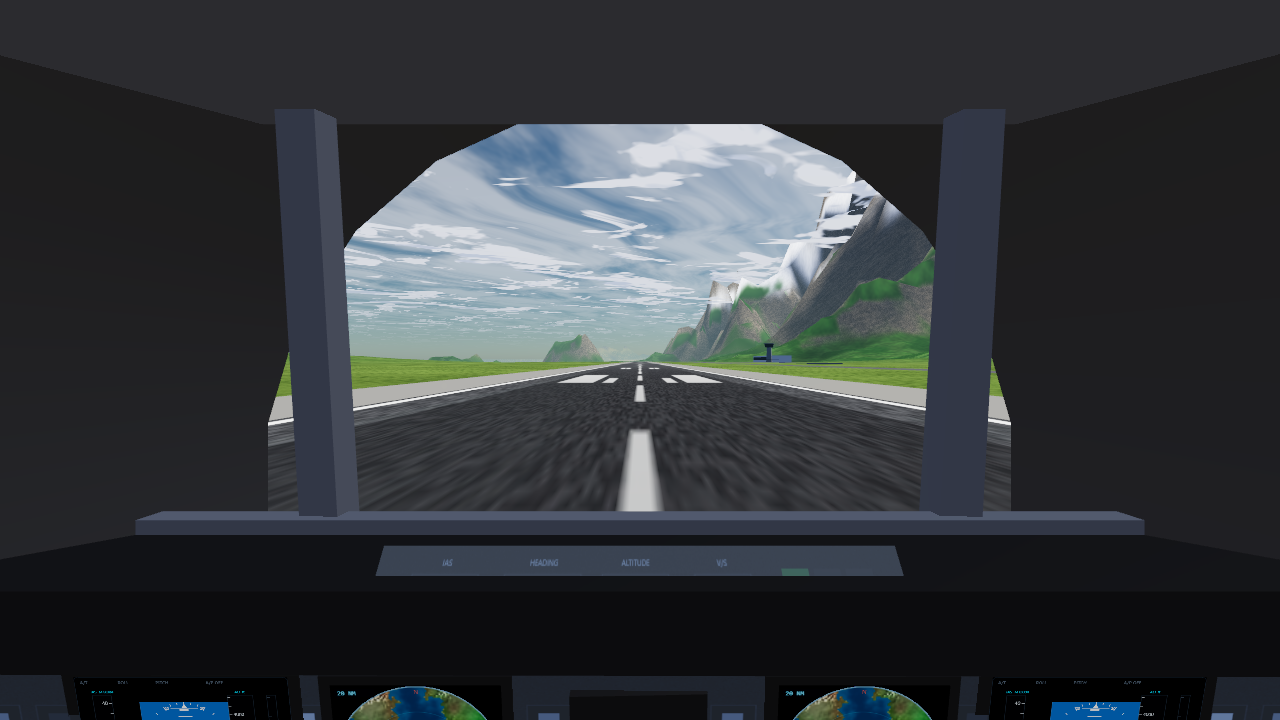
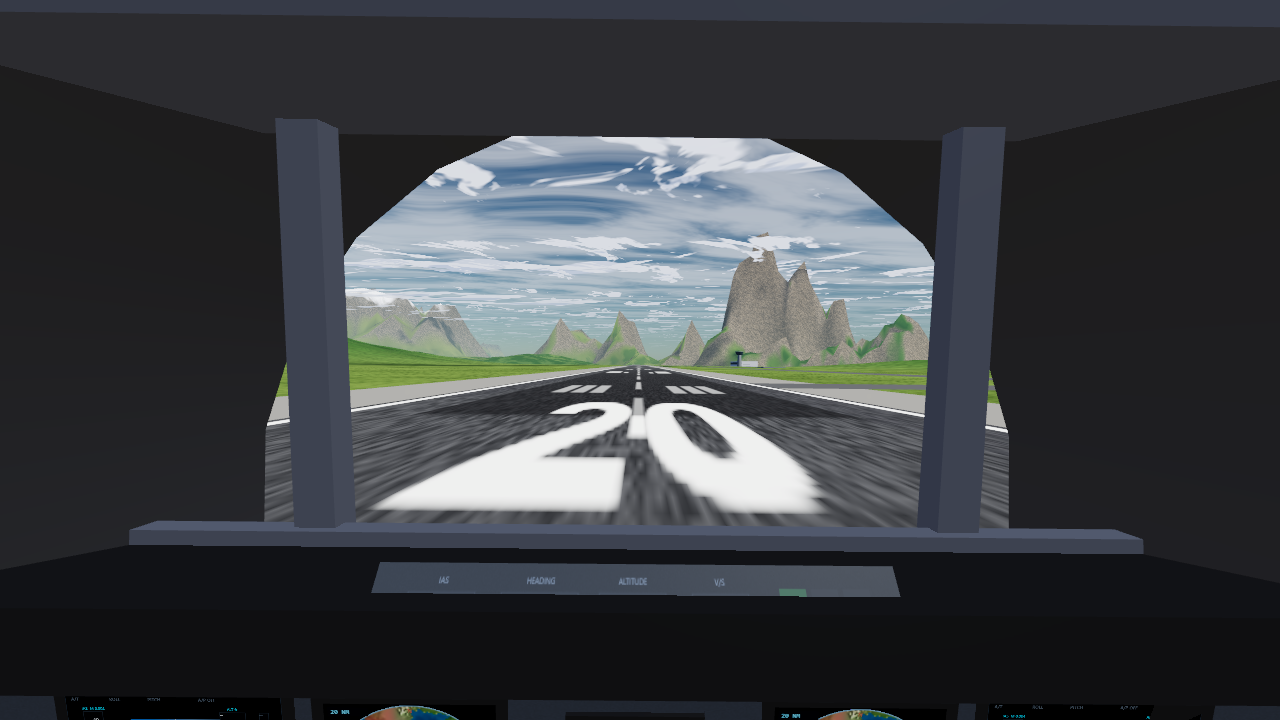
shortened required take-off distance

diff --git a/src/aircraft.js b/src/aircraft.js
@@ -1,5 +1,5 @@
 import * as THREE from 'three';
-import { terrainHeight, terrainNormal } from './terrainCommon.js';
+import { terrainHeight, terrainNormal, RWY_LENGTH } from './terrainCommon.js';
 import { snoise } from './noise.js';
 
 export const KT = 0.514444;      // knots -> m/s
@@ -52,6 +52,19 @@ const BELLY = [
 ];
 
 function clamp(v, a, b) { return v < a ? a : v > b ? b : v; }
+
+/** Idle N1 rises with altitude, from about 22% on the ground to 50% at cruise. */
+function idleN1(alt) { return 21.5 + clamp(alt, 0, 12000) / 12000 * 29; }
+
+/**
+ * Fraction of rated thrust produced at a given N1. A high-bypass turbofan is
+ * strongly non-linear — 70% N1 is only about a third of takeoff thrust — and it
+ * never reaches zero, which is why a jet creeps forward at idle.
+ */
+function thrustFraction(n1) {
+  const x = clamp((n1 - 20) / 80, 0, 1);
+  return 0.040 + 0.960 * Math.pow(x, 2.2);
+}
 function approach(cur, target, rate, dt) {
   const d = target - cur;
   const m = rate * dt;
@@ -68,9 +81,14 @@ export class Aircraft {
     this.fuel = 12000;
     this.mass = OEW + PAYLOAD + this.fuel;
 
-    // controls (-1..1)
+    // Pilot commands (-1..1) and the deflections the surfaces have actually
+    // reached — hydraulic actuators take time, which is most of what makes a
+    // large aeroplane feel heavy rather than twitchy.
     this.elevator = 0; this.aileron = 0; this.rudder = 0;
+    this.elevSurf = 0; this.ailSurf = 0; this.rudSurf = 0;
     this.elevTrim = 0.0;
+    this.buffet = 0; this.rumble = 0;
+    this._ydWash = 0; this._buffPhase = 0;
     this.throttle = 0.0;
     this.n1 = [20, 20];
     this.flapIndex = 0;
@@ -147,14 +165,18 @@ export class Aircraft {
     const CD = 0.0205 + f.dCD + 0.021 * this.gearPos + k * CL * CL;
     const drag = qbar * S * CD;
     const avail = 2 * T_MAX_ENG * Math.pow(rho / 1.225, 0.85) * (1 - 0.28 * clamp(V / a, 0, 0.9));
-    const n1 = 20 + 80 * Math.pow(clamp(drag / avail, 0, 1), 1 / 3);
+    const frac = clamp((clamp(drag / avail, 0, 1) - 0.040) / 0.960, 0, 1);
+    const n1 = 20 + 80 * Math.pow(frac, 1 / 2.2);
     this.n1 = [n1, n1];
-    this.throttle = clamp((n1 - 21) / 79, 0, 1);
+    const idle = idleN1(alt);
+    this.throttle = clamp((n1 - idle) / (100 - idle), 0, 1);
   }
 
   placeOnRunway(ap) {
     const dir = new THREE.Vector3(Math.sin(ap.hdg), 0, -Math.cos(ap.hdg));
-    this.pos.set(ap.x - dir.x * 1200, ap.elev + 3.2, ap.z - dir.z * 1200);
+    // Line up on the threshold so the whole runway is available.
+    const back = RWY_LENGTH / 2 - 70;
+    this.pos.set(ap.x - dir.x * back, ap.elev + 3.2, ap.z - dir.z * back);
     this.quat.setFromAxisAngle(new THREE.Vector3(0, 1, 0), -ap.hdg);
     this.vel.set(0, 0, 0);
     this.omega.set(0, 0, 0);
@@ -231,15 +253,25 @@ export class Aircraft {
     this.windTarget.set(Math.cos(dir) * strength, 0, Math.sin(dir) * strength);
     this.wind.lerp(this.windTarget, Math.min(dt * 0.15, 1));
 
-    // turbulence: stronger low down, in cloud, and in bad weather
+    // Turbulence: stronger low down and in bad weather. Two scales — slow swells
+    // plus a sharper ripple — and a rotational component, because what you feel
+    // in an aeroplane is mostly the aircraft being rolled and yawed, not shoved.
     const turbScale = this.turbulence * (0.4 + weatherWind);
     const t = this._t;
-    const gust = (a, b) => snoise(t * a + b, this.pos.y * 0.0007 + b);
+    const slow = (a, b) => snoise(t * a + b, this.pos.y * 0.0007 + b);
+    const fast = (a, b) => snoise(t * a + b, this.pos.x * 0.00035 + b);
     this._gust = this._gust || new THREE.Vector3();
+    this._gustRot = this._gustRot || new THREE.Vector3();
     const lowLevel = 1 + 2.0 * Math.exp(-Math.max(this.agl, 0) / 700);
+    const k = turbScale * lowLevel;
     this._gust.set(
-      gust(0.7, 0) * 3.0, gust(0.55, 40) * 2.4, gust(0.63, 80) * 3.0
-    ).multiplyScalar(turbScale * lowLevel);
+      slow(0.7, 0) * 3.0 + fast(2.9, 11) * 1.0,
+      slow(0.55, 40) * 2.4 + fast(3.4, 51) * 1.2,
+      slow(0.63, 80) * 3.0 + fast(3.1, 91) * 1.0
+    ).multiplyScalar(k);
+    this._gustRot.set(
+      fast(2.2, 7) * 0.05, fast(1.7, 23) * 0.03, fast(2.6, 37) * 0.07
+    ).multiplyScalar(k);
   }
 
   step(dt) {
@@ -252,11 +284,12 @@ export class Aircraft {
     this.gearPos = approach(this.gearPos, this.gearDown ? 1 : 0, 1 / 9, dt);
     this.spoilers = approach(this.spoilers, this.spoilerCmd, 1.6, dt);
 
-    // engines: first order spool
-    const idleN1 = 21 + Math.max(0, this.pos.y) * 0.0006 * 100 * 0.01;
-    const cmdN1 = idleN1 + this.throttle * (100 - idleN1);
+    // Engines. Spool time shortens as N1 rises — a turbofan accelerates lazily
+    // off idle and briskly once the core is already spinning.
+    const idle = idleN1(this.pos.y);
+    const cmdN1 = idle + this.throttle * (100 - idle);
     for (let i = 0; i < 2; i++) {
-      const tau = this.n1[i] < cmdN1 ? 2.6 : 1.6;
+      const tau = this.n1[i] < cmdN1 ? Math.max(3.1 - 0.020 * this.n1[i], 0.9) : 1.5;
       this.n1[i] += (cmdN1 - this.n1[i]) * Math.min(dt / tau, 1);
     }
 
@@ -281,6 +314,17 @@ export class Aircraft {
     this.alpha = alpha; this.beta = beta;
 
     const p = -this.omega.z, qq = this.omega.x, r = -this.omega.y;
+
+    // --- yaw damper --------------------------------------------------------
+    // Every jet transport has one. It opposes yaw rate to kill the Dutch roll,
+    // and washes out over a few seconds so it does not fight a steady turn.
+    this._ydWash += (r - this._ydWash) * Math.min(dt / 5.0, 1);
+    const yawDamper = this.onGround ? 0 : clamp(-(r - this._ydWash) * 4.0, -0.35, 0.35);
+
+    // --- control surface actuators ----------------------------------------
+    this.elevSurf = approach(this.elevSurf, clamp(this.elevator, -1, 1), 2.3, dt);
+    this.ailSurf = approach(this.ailSurf, clamp(this.aileron, -1, 1), 3.0, dt);
+    this.rudSurf = approach(this.rudSurf, clamp(this.rudder + yawDamper, -1, 1), 2.3, dt);
 
     // --- terrain / ground --------------------------------------------------
     const groundY = terrainHeight(this.pos.x, this.pos.z);
@@ -310,7 +354,7 @@ export class Aircraft {
 
     // control inputs use stick sense: +elevator = nose up, +rudder = nose right.
     // Control derivatives are scaled for a unit input meaning full deflection.
-    CL += 6.2 * qhat - 0.06 * this.elevator - 0.42 * this.spoilers;
+    CL += 6.2 * qhat - 0.06 * this.elevSurf - 0.42 * this.spoilers;
 
     const e = 0.80;
     const k = 1 / (Math.PI * e * AR);
@@ -320,14 +364,14 @@ export class Aircraft {
     if (this.mach > 0.72) CD += 0.045 * Math.pow(this.mach - 0.72, 2) / 0.0016 * 0.001;
     CD += 0.28 * Math.abs(Math.sin(beta)) * Math.abs(Math.sin(beta));
 
-    const CY = -0.92 * beta - 0.080 * this.rudder;
+    const CY = -0.92 * beta - 0.080 * this.rudSurf;
 
     let Cl = -0.13 * beta - 0.50 * phat + 0.11 * rhat
-      + 0.0230 * this.aileron + 0.0060 * this.rudder;
+      + 0.0230 * this.ailSurf + 0.0060 * this.rudSurf;
     let Cm = 0.045 + dCmflap - 1.35 * alpha - 24.0 * qhat
-      + 0.30 * (this.elevator + this.elevTrim) - 0.05 * this.spoilers;
+      + 0.30 * (this.elevSurf + this.elevTrim) - 0.05 * this.spoilers;
     let Cn = 0.132 * beta - 0.035 * phat - 0.20 * rhat
-      - 0.0028 * this.aileron + 0.045 * this.rudder;
+      - 0.0028 * this.ailSurf + 0.045 * this.rudSurf;
 
     const qbar = 0.5 * rho * V * V;
     const Lift = qbar * S * CL;
@@ -348,9 +392,8 @@ export class Aircraft {
     const lapse = Math.pow(rho / rho0, 0.85);
     let thrust = 0;
     for (let i = 0; i < N_ENG; i++) {
-      const frac = Math.pow(clamp((this.n1[i] - 20) / 80, 0, 1), 3.0);
-      let T = frac * T_MAX_ENG * lapse * (1 - 0.28 * clamp(this.mach, 0, 0.9));
-      thrust += T;
+      thrust += thrustFraction(this.n1[i]) * T_MAX_ENG * lapse
+        * (1 - 0.28 * clamp(this.mach, 0, 0.9));
     }
     if (this.reverse > 0 && this.onGround) thrust *= -0.42 * this.reverse;
     Fb.z += -thrust;                       // forward is -z
@@ -454,7 +497,25 @@ export class Aircraft {
       (Mb.x - gyro.x) / IXX, (Mb.y - gyro.y) / IYY, (Mb.z - gyro.z) / IZZ
     );
     this.omega.addScaledVector(domega, dt);
+    if (this._gustRot && !onGround) this.omega.addScaledVector(this._gustRot, dt);
     this.omega.multiplyScalar(1 - Math.min(dt * 0.02, 0.5));
+
+    // --- airframe buffet ---------------------------------------------------
+    // Separated flow near the stall, and wake off deployed speedbrakes, shakes
+    // the aeroplane. Driven by phase-shifted sinusoids so it oscillates about
+    // zero instead of random-walking the attitude away.
+    const stallProx = clamp((alpha - aStall * 0.76) / (aStall * 0.24), 0, 1);
+    const brakeBuffet = this.spoilers * 0.30 * clamp(V / 90, 0, 1);
+    this.buffet = Math.min(1, stallProx + brakeBuffet);
+    if (this.buffet > 0.01 && V > 20) {
+      this._buffPhase += dt * 34.0;
+      const b = this.buffet * 1.6;
+      this.omega.x += Math.sin(this._buffPhase * 1.00) * b * dt;
+      this.omega.z += Math.sin(this._buffPhase * 1.37 + 1.1) * b * 1.4 * dt;
+      this.omega.y += Math.sin(this._buffPhase * 0.83 + 2.3) * b * 0.5 * dt;
+    }
+    const gs = Math.hypot(this.vel.x, this.vel.z);
+    this.rumble = onGround ? clamp(gs / 70, 0, 1) : 0;
 
     const dq = new THREE.Quaternion(
       this.omega.x * dt * 0.5, this.omega.y * dt * 0.5, this.omega.z * dt * 0.5, 1

diff --git a/src/controls.js b/src/controls.js
@@ -118,9 +118,11 @@ export class Controls {
       const d = tgt - cur;
       return Math.abs(d) < rate * dt ? tgt : cur + Math.sign(d) * rate * dt;
     };
-    this.pitchCmd = toward(this.pitchCmd, pitchIn, 2.0, 2.8);
-    this.rollCmd = toward(this.rollCmd, rollIn, 3.2, 4.2);
-    this.yawCmd = toward(this.yawCmd, yawIn, 2.6, 3.4);
+    // Deliberately unhurried: this stands in for a pilot moving a heavy control
+    // column, and the surfaces themselves add further lag in the flight model.
+    this.pitchCmd = toward(this.pitchCmd, pitchIn, 1.6, 2.1);
+    this.rollCmd = toward(this.rollCmd, rollIn, 2.5, 3.1);
+    this.yawCmd = toward(this.yawCmd, yawIn, 2.1, 2.7);
 
     // gain schedule: less deflection needed as dynamic pressure rises
     const kt = ac.ias / KT;
@@ -135,8 +137,8 @@ export class Controls {
     }
 
     if (!(ac.ap.on && ac.ap.spdHold)) {
-      if (held('ShiftLeft', 'ShiftRight', 'PageUp')) this.actions.throttleDelta(0.42 * dt);
-      if (held('ControlLeft', 'ControlRight', 'PageDown')) this.actions.throttleDelta(-0.42 * dt);
+      if (held('ShiftLeft', 'ShiftRight', 'PageUp')) this.actions.throttleDelta(0.60 * dt);
+      if (held('ControlLeft', 'ControlRight', 'PageDown')) this.actions.throttleDelta(-0.60 * dt);
     }
     if (held('Comma')) ac.elevTrim = clamp(ac.elevTrim - 0.09 * dt, -0.5, 0.5);
     if (held('Period')) ac.elevTrim = clamp(ac.elevTrim + 0.09 * dt, -0.5, 0.5);

diff --git a/src/airports.js b/src/airports.js
@@ -24,18 +24,21 @@ export function airportForCell(cx, cz) {
   const key = cx + ',' + cz;
   if (cellCache.has(key)) return cellCache.get(key);
   let result = null;
-  for (let attempt = 0; attempt < 12; attempt++) {
+  for (let attempt = 0; attempt < 16; attempt++) {
     const hx = hash2(cx * 92821 + attempt * 7919, cz * 68917 + 13);
     const hz = hash2(cx * 40499 + 31, cz * 74093 + attempt * 5417);
     const x = (cx + 0.15 + hx * 0.7) * CELL;
     const z = (cz + 0.15 + hz * 0.7) * CELL;
 
     let lo = Infinity, hi = -Infinity, sum = 0, n = 0;
-    for (const [ox, oz] of [[0, 0], [1400, 0], [-1400, 0], [0, 1400], [0, -1400], [1000, 1000], [-1000, -1000]]) {
+    for (const [ox, oz] of [[0, 0], [1800, 0], [-1800, 0], [0, 1800], [0, -1800],
+      [900, 0], [-900, 0], [1250, 1250], [-1250, -1250]]) {
       const h = terrainBase(x + ox, z + oz);
       lo = Math.min(lo, h); hi = Math.max(hi, h); sum += h; n++;
     }
-    if (lo < 10 || hi - lo > 280) continue;
+    // The flattening blends over AP_FALLOFF, so a fair amount of natural relief
+    // across the site is fine — it just becomes a gentle shelf.
+    if (lo < 10 || hi - lo > 360) continue;
     const elev = sum / n;
 
     // Both ends need a usable approach and departure corridor: a 2.3% surface

diff --git a/src/main.js b/src/main.js
@@ -277,6 +277,7 @@ const camVel = new THREE.Vector3();
 let last = performance.now() / 1000;
 let simTime = 0;
 let fps = 60, frames = 0, fpsT = 0;
+let shakePhase = 0;
 let started = false;
 
 const dayAmb = new THREE.Color(0.30, 0.46, 0.86);
@@ -394,6 +395,18 @@ function updateCamera(dt) {
     camera.lookAt(ac.pos);
     camera.fov = 50;
   }
+  // Airframe shake: stall/speedbrake buffet, and the runway hammering through
+  // the gear. Strongest in the cockpit, damped down in the external views.
+  const shakeAmt = (ac.buffet * 0.85 + ac.rumble * 0.30) * (ui.cam === 0 ? 1 : 0.35);
+  if (shakeAmt > 0.004) {
+    shakePhase += dt * 47;
+    const a = shakeAmt * 0.012;
+    camera.rotateZ(Math.sin(shakePhase * 1.00) * a);
+    camera.rotateX(Math.sin(shakePhase * 1.43 + 1.7) * a * 0.8);
+    camera.rotateY(Math.sin(shakePhase * 0.79 + 3.1) * a * 0.6);
+    camera.position.y += Math.sin(shakePhase * 1.61) * shakeAmt * 0.035;
+  }
+
   camera.updateProjectionMatrix();
   camera.updateMatrixWorld();
 }

diff --git a/src/plane737.js b/src/plane737.js
@@ -602,9 +602,10 @@ export function animate737(model, ac, dt, time) {
   const { surfaces, engines, noseGear, mainGears, navLights, lightMats } = model.userData;
   const gp = ac.gearPos;
 
-  for (const a of surfaces.aileron) a.g.rotation.x = -a.sign * ac.aileron * 0.35;
-  for (const e of surfaces.elevator) e.g.rotation.x = -(ac.elevator + ac.elevTrim) * 0.38;
-  surfaces.rudder.rotation.y = -ac.rudder * 0.42;
+  // driven by the surfaces' actual deflection, not the raw pilot command
+  for (const a of surfaces.aileron) a.g.rotation.x = -a.sign * ac.ailSurf * 0.35;
+  for (const e of surfaces.elevator) e.g.rotation.x = -(ac.elevSurf + ac.elevTrim) * 0.38;
+  surfaces.rudder.rotation.y = -ac.rudSurf * 0.42;
 
   const fdeg = ac.flapActual / 40;
   for (const f of surfaces.flap) {

diff --git a/src/terrainCommon.js b/src/terrainCommon.js
@@ -6,13 +6,15 @@ import { snoise, fbmW, hash2 } from './noise.js';
 
 export const MAX_AIRPORTS = 12;
 
-// Airport flattening footprint (metres).
-export const AP_HALF_L = 1500.0;
+// Airport flattening footprint (metres). The flat core must comfortably contain
+// the runway plus its overruns.
+export const AP_HALF_L = 1850.0;
 export const AP_HALF_W = 300.0;
 export const AP_FALLOFF = 1200.0;
 
-// Runway geometry
-export const RWY_LENGTH = 2800.0;
+// Runway geometry — 3200 m, a normal length for a jet airport and enough for a
+// fully loaded 737 out of a high-elevation field.
+export const RWY_LENGTH = 3200.0;
 export const RWY_WIDTH = 46.0;
 
 export const CLIMATE_SCALE = 420000.0; // metres from equator to polar climate

diff --git a/README.md b/README.md
@@ -28,9 +28,11 @@ level on its own — nothing needs to be held.
 Press **Enter** to be placed at the start of a runway, then:
 
 1. **Flaps 5** — press `]` twice. The `FLAP` readout on the PFD should show `5`.
-2. **Full thrust** — hold **Shift** for about three seconds until `N1` reaches
-   100 % and `THR` shows `100%`. You will start rolling immediately; the
-   parking brake is off.
+2. **Full thrust** — hold **Shift** for about two seconds until `THR` shows
+   `100%`. The engines take a further few seconds to spool: `N1` climbs to about
+   93 % after five seconds and 100 % shortly after. **The first couple of
+   seconds feel like nothing is happening — that is correct.** A loaded jet is
+   slow to start rolling, then accelerates hard.
 3. **Keep straight** — use `Q` and `E` for the nosewheel if you drift. You
    shouldn't need much.
 4. **Rotate at 150 kt** — watch the speed tape on the left of the PFD. At 150,
@@ -41,9 +43,11 @@ Press **Enter** to be placed at the start of a runway, then:
 6. **Flaps up** passing about 1000 ft — press `[` twice.
 7. Trim off any stick force with `,` and `.` so you can let go of the yoke.
 
-That is roughly a 40-second ground roll and a 3000 fpm initial climb. To level
-off, press `1` to engage the autopilot — it captures the heading, altitude and
-speed you are at, and you can then type new ones into the panel on the right.
+You lift off after about 1500 m of a 3200 m runway — roughly 35 seconds — and
+climb away at around 3000 fpm. You start lined up on the threshold, so the whole
+runway is ahead of you. To level off, press `1` to engage the autopilot: it
+captures the heading, altitude and speed you are at, and you can then type new
+ones into the panel on the right.
 
 ### If it won't accelerate
 
@@ -78,9 +82,33 @@ as three sprung struts with load-dependent tyre friction, brakes, thrust
 reverse and nosewheel steering; there are separate fuselage contact points, so a
 tailstrike or gear-up landing does what you would expect.
 
-Representative behaviour: rotation around 150 kt, ~12°/s roll rate at full
+Representative behaviour: rotation around 150 kt, ~13°/s roll rate at full
 aileron, 2.2 g at full aft stick from cruise trim, and a stable 3° approach at
 Vref on roughly 70 % N1.
+
+### What makes it feel heavy
+
+A lot of the difference between "aeroplane" and "spaceship with wings" is not in
+the aerodynamics but in everything between your hand and the air:
+
+- **Thrust is strongly non-linear in N1.** 70 % N1 is only about a third of
+  takeoff thrust. Idle is not zero either, so the aeroplane creeps when you
+  release the brakes. Spool time shortens as the core spins up — lazy off idle,
+  brisk once it is turning.
+- **Control surfaces lag the controls.** The stick and the elevator are separate
+  states: your input ramps like a hand moving a heavy column, and the surface
+  then takes about a third of a second to reach it. Full aileron takes ~3 s to
+  reach a 25° bank rather than snapping there.
+- **A yaw damper**, as every jet transport has. It opposes yaw rate and washes
+  out over five seconds so it doesn't fight a steady turn — this is why the
+  aeroplane tracks smoothly instead of wallowing in Dutch roll.
+- **Buffet.** Separated flow near the stall, and wake off deployed speedbrakes,
+  shakes the airframe — and the camera with it. It arrives a few knots before
+  the stall warning, so you feel the edge before you're told about it.
+- **Turbulence in two scales plus rotation.** Slow swells, a sharper ripple, and
+  gusts that roll and yaw you rather than just shoving you sideways, which is
+  what you actually feel in an aeroplane. It strengthens near the ground.
+- **Runway rumble** through the gear, scaled with groundspeed.
 
 The autopilot has heading, altitude and speed channels with bank limiting and
 speed-based envelope protection, so it will not stall the aircraft in a climb.
